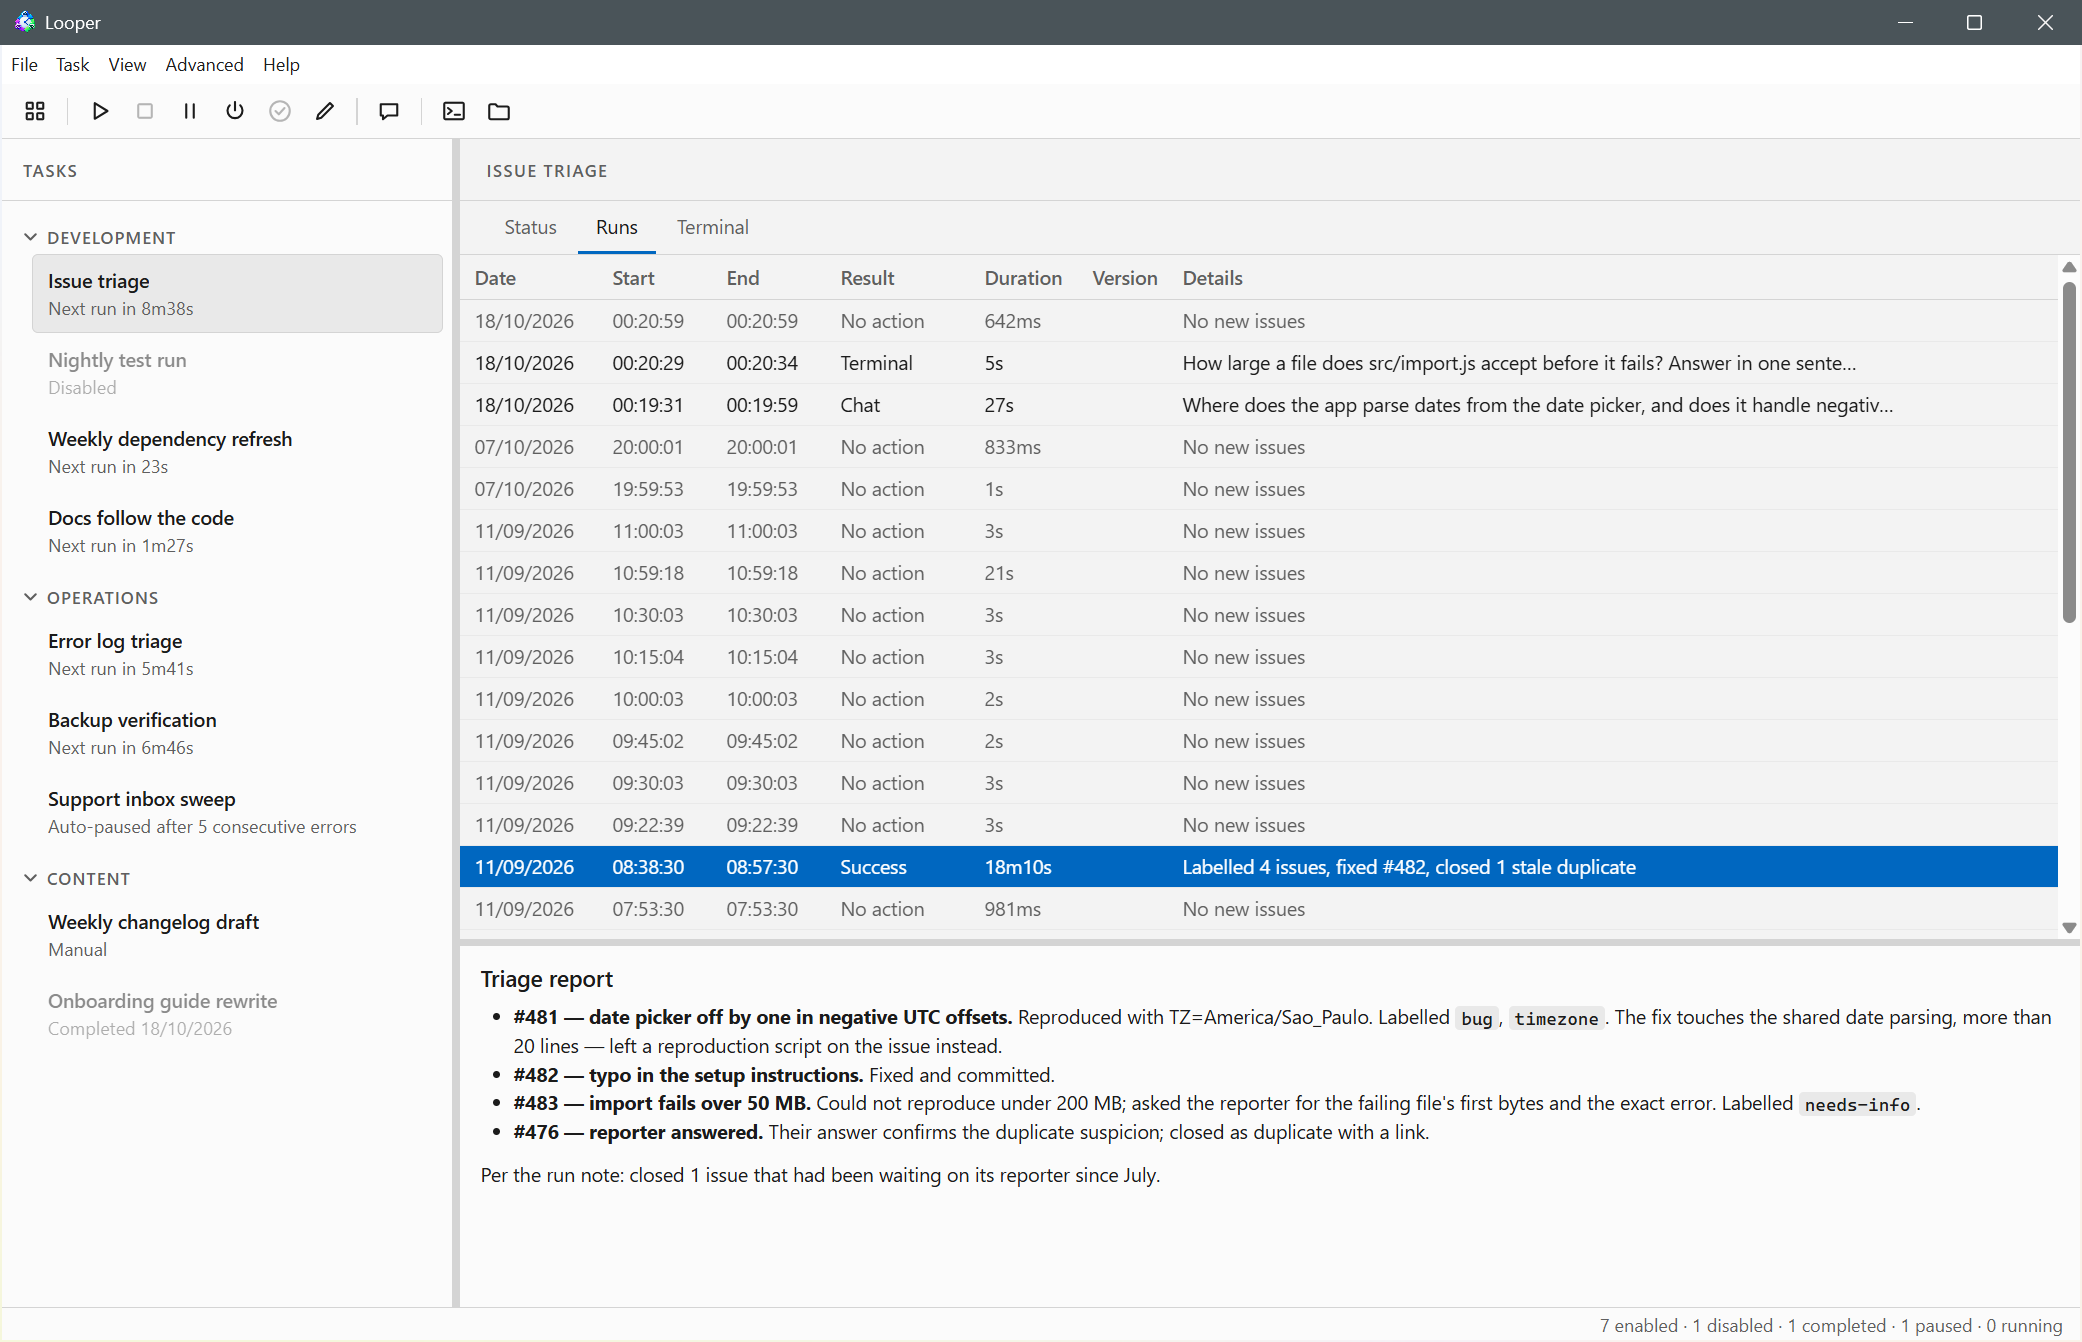
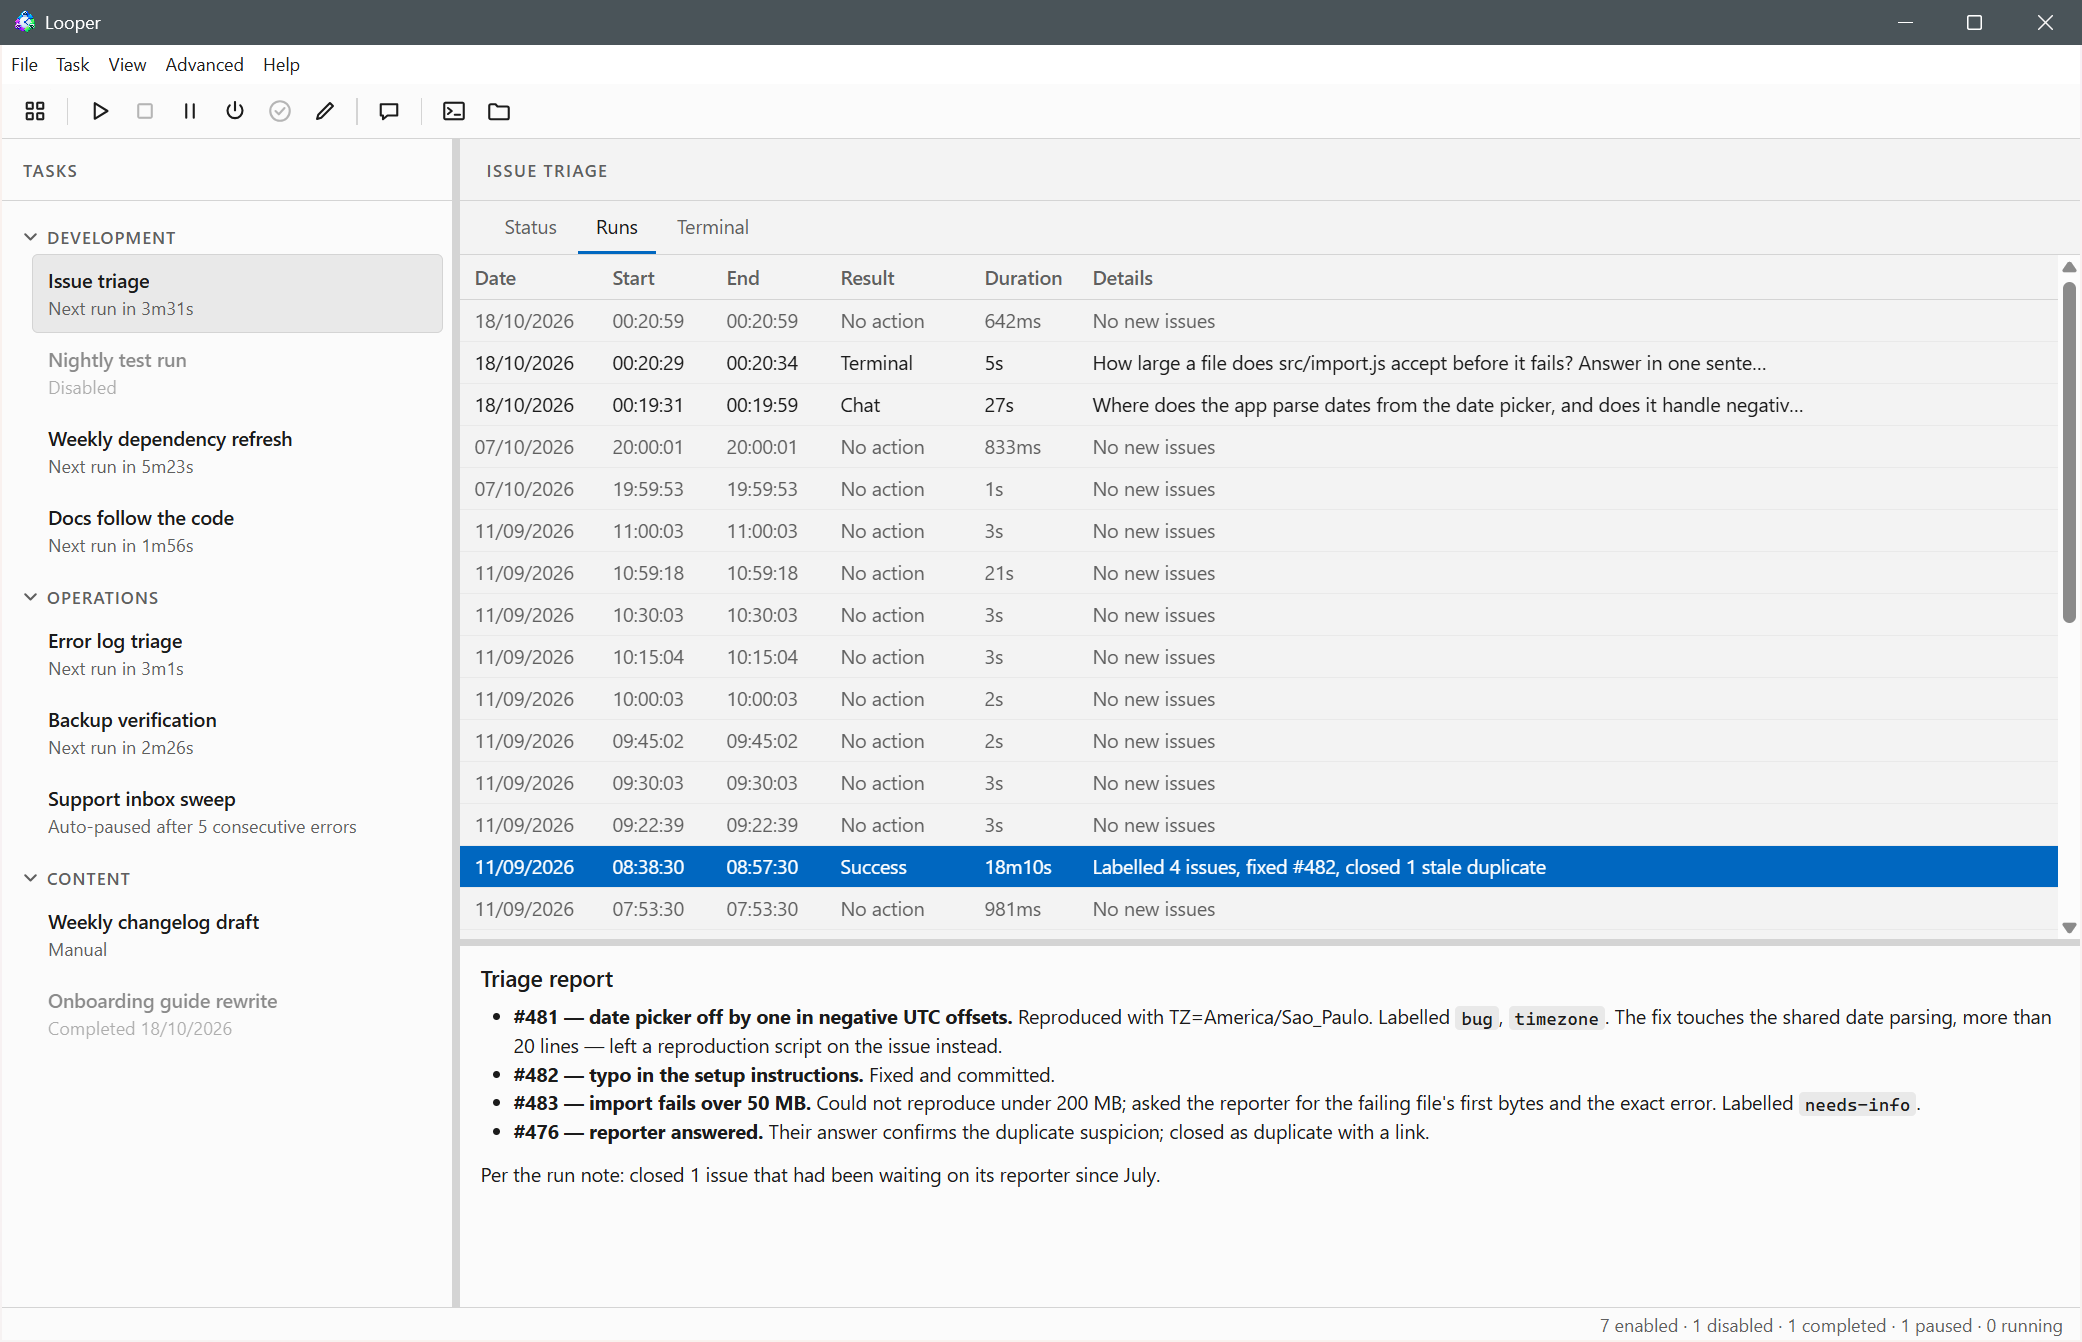
Drop the run list's Version column, and open a failed run's window from the dashboard
Runs still record the task version they started with; only the column is
gone, along with its mentions in the docs, and the Runs tab screenshot is
retaken from the demo data. Double-clicking a dashboard row about a failed
run now opens that run's window instead of the task's Runs tab. The task
runtime keeps the id of the run that set its last result for this.

Claude-Session: https://claude.ai/code/session_016LNxjciVS3U2TUu1tuc1bA

Changed region(s): [[0.5307, 0.1833, 0.9054, 0.7027], [0.0624, 0.3361, 0.0937, 0.3666]]

diff --git a/src/shared/dashboard.ts b/src/shared/dashboard.ts
@@ -10,6 +10,8 @@ export interface AttentionRow {
   at: number | null;
   /** The waiting run; null for a row about the task's last result. */
   runId: string | null;
+  /** The finished run a row about the task's last result comes from. */
+  lastRunId: string | null;
 }
 
 /** A main-window dashboard row for a run in progress. */
@@ -33,13 +35,13 @@ export function attentionRows(tasks: Task[], runtimes: Record<string, TaskRuntim
     if (!rt || task.completedAt || rt.state === 'disabled') continue;
     for (const run of rt.runs) {
       if (run.held) {
-        rows.push({ task, level: 'warning', problem: 'The agent is waiting for you in the Terminal tab.', at: run.startedAt, runId: run.runId });
+        rows.push({ task, level: 'warning', problem: 'The agent is waiting for you in the Terminal tab.', at: run.startedAt, runId: run.runId, lastRunId: null });
       }
     }
     const detail = rt.lastDetail ? capFirst(rt.lastDetail) : '';
     if (rt.state === 'paused' && rt.pausedReason?.startsWith('auto-paused')) {
       const last = rt.pausedReason.startsWith('auto-paused after') && detail ? ` Last error: ${detail}` : '';
-      rows.push({ task, level: 'error', problem: `${capFirst(rt.pausedReason)}.${last}`, at: rt.lastRunAt, runId: null });
+      rows.push({ task, level: 'error', problem: `${capFirst(rt.pausedReason)}.${last}`, at: rt.lastRunAt, runId: null, lastRunId: rt.lastRunId });
     } else if (rt.lastResult && (ERROR_RESULTS.has(rt.lastResult) || rt.lastResult === 'warning')) {
       const label = resultLabel(rt.lastResult);
       // An error's detail already says what failed; other results name themselves first.
@@ -50,6 +52,7 @@ export function attentionRows(tasks: Task[], runtimes: Record<string, TaskRuntim
         problem,
         at: rt.lastRunAt,
         runId: null,
+        lastRunId: rt.lastRunId,
       });
     }
   }

diff --git a/tests/dashboard.test.ts b/tests/dashboard.test.ts
@@ -12,6 +12,7 @@ const runtime = (taskId: string, over: Partial<TaskRuntime> = {}): TaskRuntime =
   runs: [],
   nextRunAt: null,
   lastRunAt: null,
+  lastRunId: null,
   lastResult: null,
   lastDetail: null,
   consecutiveErrors: 0,
@@ -43,18 +44,19 @@ describe('dashboard rows', () => {
         lastResult: 'error',
         lastDetail: 'agent exited with code 1',
         lastRunAt: 100,
+        lastRunId: 'p5',
       }),
-      failed: runtime('failed', { lastResult: 'max-runtime', lastDetail: 'agent timed out', lastRunAt: 200 }),
+      failed: runtime('failed', { lastResult: 'max-runtime', lastDetail: 'agent timed out', lastRunAt: 200, lastRunId: 'f1' }),
       fine: runtime('fine', { lastResult: 'success', lastRunAt: 400 }),
     });
     const erred = attentionRows([task('erred')], {
       erred: runtime('erred', { lastResult: 'error', lastDetail: 'check error: check exited 1', lastRunAt: 50 }),
     });
     expect(erred[0].problem).toBe('Check error: check exited 1');
-    expect(rows.map((r) => [r.task.id, r.level, r.problem, r.runId])).toEqual([
-      ['failed', 'error', 'Timed out: Agent timed out', null],
-      ['paused', 'error', 'Auto-paused after 5 consecutive errors. Last error: Agent exited with code 1', null],
-      ['waits', 'warning', 'The agent is waiting for you in the Terminal tab.', 'r1'],
+    expect(rows.map((r) => [r.task.id, r.level, r.problem, r.runId, r.lastRunId])).toEqual([
+      ['failed', 'error', 'Timed out: Agent timed out', null, 'f1'],
+      ['paused', 'error', 'Auto-paused after 5 consecutive errors. Last error: Agent exited with code 1', null, 'p5'],
+      ['waits', 'warning', 'The agent is waiting for you in the Terminal tab.', 'r1', null],
     ]);
   });
 

diff --git a/tests/scheduler.test.ts b/tests/scheduler.test.ts
@@ -199,7 +199,7 @@ const records = () =>
     .filter((e) => e.type === 'record')
     .map(
       (e) =>
-        (e as { record: { phase: string; result: string; summary?: string; body?: string; network?: boolean; environment?: boolean; slept?: boolean } })
+        (e as { record: { runId: string; phase: string; result: string; summary?: string; body?: string; network?: boolean; environment?: boolean; slept?: boolean } })
           .record,
     );
 
@@ -217,6 +217,7 @@ describe('Scheduler', () => {
     expect(rt.state).toBe('idle');
     expect(rt.lastResult).toBe('noop');
     expect(rt.lastDetail).toBe('quiet');
+    expect(rt.lastRunId).toBe(records()[0].runId);
     expect(rt.nextRunAt).toBe(1_020_000); // next whole minute after 1_000_000
     expect(records().map((r) => `${r.phase}:${r.result}`)).toEqual(['check:noop']);
     expect(h.agentStarted).toBe(0);
@@ -1564,6 +1565,7 @@ describe('startup overdue filtering', () => {
         runs: [],
         nextRunAt: null,
         lastRunAt: new Date('2026-01-15T10:01:00Z').getTime(),
+        lastRunId: null,
         lastResult: 'success',
         lastDetail: null,
         consecutiveErrors: 0,
@@ -1611,6 +1613,7 @@ describe('startup overdue filtering', () => {
         runs: [],
         nextRunAt: null,
         lastRunAt: now - 10 * 60_000,
+        lastRunId: null,
         lastResult: 'success',
         lastDetail: null,
         consecutiveErrors: 0,
@@ -1687,6 +1690,7 @@ describe('interrupted runs', () => {
         runs,
         nextRunAt: null,
         lastRunAt: 1,
+        lastRunId: null,
         lastResult: null,
         lastDetail: null,
         consecutiveErrors: 0,

diff --git a/src/renderer/src/components/RunLog.tsx b/src/renderer/src/components/RunLog.tsx
@@ -11,7 +11,6 @@ const RUN_COLS: readonly TableCol[] = [
   { label: 'End', width: 76 },
   { label: 'Result', width: 96 },
   { label: 'Duration', width: 72 },
-  { label: 'Version', width: 60 },
   { label: 'Details' },
 ];
 
@@ -33,8 +32,6 @@ interface RunGroup {
   totalDurationMs: number;
   details: string;
   resultText: string;
-  /** The task's version when the run started. */
-  version?: number;
   records: RunRecord[];
 }
 
@@ -96,7 +93,6 @@ export function RunLog({ task, records, runtime, hideNoAction, hideChatsAndTermi
         totalDurationMs: totalMs,
         details: lastDetail(steps),
         resultText: resultText(steps),
-        version: sorted.find((r) => r.taskVersion !== undefined)?.taskVersion,
         records: sorted,
       });
     }
@@ -167,13 +163,12 @@ export function RunLog({ task, records, runtime, hideNoAction, hideChatsAndTermi
                 <td>{fmtTime(g.endTs)}</td>
                 <td>{isRunning(g.runId) ? 'Running' : resultLabel(g.result)}</td>
                 <td>{g.totalDurationMs > 0 ? formatDuration(g.totalDurationMs) : ''}</td>
-                <td>{g.version ?? ''}</td>
                 <td title={g.details}>{g.details}</td>
               </tr>
             ))}
             {groups.length === 0 && (
               <tr>
-                <td colSpan={7} className="muted">
+                <td colSpan={6} className="muted">
                   No runs yet.
                 </td>
               </tr>

diff --git a/src/renderer/src/components/Dashboard.tsx b/src/renderer/src/components/Dashboard.tsx
@@ -67,8 +67,12 @@ export function Dashboard({ attention, running, remote, runtimes, now, pick, onP
 
   const attentionPick = (r: AttentionRow): DashboardPick => ({ list: 'attention', taskId: r.task.id, runId: r.runId });
   const runningPick = (r: RunningRow): DashboardPick => ({ list: 'running', taskId: r.task.id, runId: r.runId });
-  // A waiting run opens on its terminal; a failed one on its run log.
-  const openAttention = (r: AttentionRow) => onOpen(r.task.id, r.runId ? 'terminal' : 'runs');
+  // A waiting run opens on its terminal; a failed one in its run window.
+  const openAttention = (r: AttentionRow) => {
+    if (r.runId) onOpen(r.task.id, 'terminal');
+    else if (r.lastRunId) void window.looper.openMessages(r.task.id, r.lastRunId);
+    else onOpen(r.task.id, 'runs');
+  };
   const openRunning = (r: RunningRow) => onOpen(r.task.id, 'terminal');
 
   const attentionIndex = attention.findIndex((r) => isPicked('attention', r.task.id, r.runId));

diff --git a/src/engine/scheduler.ts b/src/engine/scheduler.ts
@@ -611,6 +611,7 @@ export class Scheduler extends EventEmitter {
       // Only a cron schedule has a next slot; manual and watcher tasks never do.
       nextRunAt: task.enabled && scheduleOf(task) ? this.now() + delayMs : null,
       lastRunAt: prev?.lastRunAt ?? null,
+      lastRunId: prev?.lastRunId ?? null,
       lastResult: prev?.lastResult ?? null,
       lastDetail: prev?.lastDetail ?? null,
       consecutiveErrors: 0,
@@ -1490,6 +1491,7 @@ export class Scheduler extends EventEmitter {
     const limitWait = retryAtMs !== undefined && retryAtMs > now;
     const counts = !limitWait && !network && !environment && !slept;
     if (counts) rt.consecutiveErrors = errored ? rt.consecutiveErrors + 1 : 0;
+    rt.lastRunId = runId;
     rt.lastResult = outcome;
     rt.lastDetail = detail || null;
     const at = rt.runs.findIndex((r) => r.runId === runId);

diff --git a/src/shared/types.ts b/src/shared/types.ts
@@ -689,6 +689,8 @@ export interface TaskRuntime {
   runs: ActiveRun[];
   nextRunAt: number | null;
   lastRunAt: number | null;
+  /** The run that set lastResult. */
+  lastRunId: string | null;
   /** Outcome of the last cycle (success, warning, error, noop, ...). */
   lastResult: RunResult | null;
   /** One line about the last cycle: the run's headline, the check summary, or the error. */

diff --git a/tests/rest.test.ts b/tests/rest.test.ts
@@ -18,6 +18,7 @@ function runtime(partial: Partial<TaskRuntime>): TaskRuntime {
     runs: [],
     nextRunAt: null,
     lastRunAt: null,
+    lastRunId: null,
     lastResult: null,
     lastDetail: null,
     consecutiveErrors: 0,

diff --git a/docs/monitoring.md b/docs/monitoring.md
@@ -45,7 +45,8 @@ has been going.
 Clicking a row picks it, and the toolbar, the Task menu and the row's
 right-click menu then act on that task. Stop Task stops that row's run.
 Double-clicking a row, or pressing Enter, selects the task and opens its
-Terminal tab, or its Runs tab for a failed run.
+Terminal tab. On a row about a failed run, it opens that run's window
+instead.
 
 Tasks and folders can be reordered by dragging them; the order is saved.
 Dropping a task on another task inserts it there (joining that task's
@@ -356,8 +357,7 @@ press Stop Task (Shift+F5)."
 ![The Runs tab: a chat and a terminal session among the scheduled runs, and a run selected with its report below](img/runs-tab.png)
 
 The Runs tab lists every past run of the task as a table: Date, Start,
-End, Result, Duration, Version (the task's [version](tasks.md#version-history)
-when the run started), Details. Each row is one full run (check, classify,
+End, Result, Duration, Details. Each row is one full run (check, classify,
 and agent steps collapsed together, showing the most significant result);
 a run still in progress shows Running in the Result column. A
 [chat](#chats) or [terminal session](#terminal-sessions) you started shows as

diff --git a/docs/tasks.md b/docs/tasks.md
@@ -435,8 +435,7 @@ before the first recorded change, marked "Before history".
 
 ![Compare with Current: a prompt and a script as line diffs](img/version-compare.png)
 
-The Runs tab's **Version** column shows which version each run started
-with. Deleting a task for good from the Recycle Bin deletes its history too;
+Deleting a task for good from the Recycle Bin deletes its history too;
 Clear Run History doesn't touch it.
 
 ## Prompt template variables
